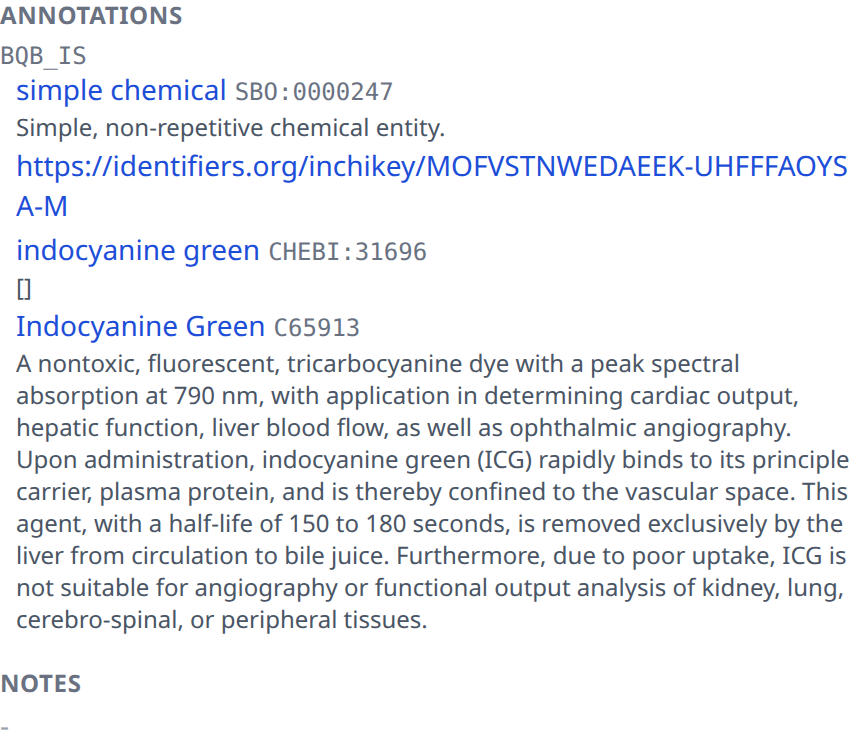
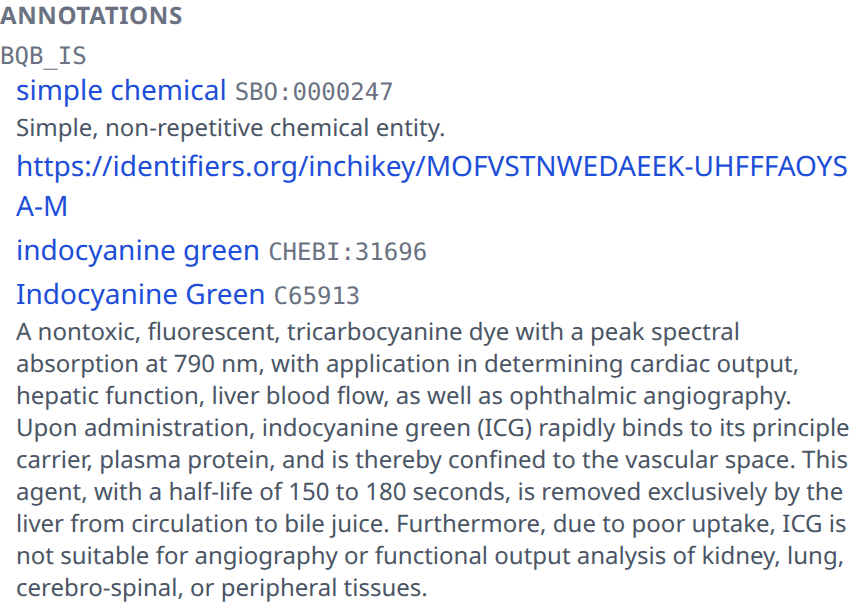
Show no description for a term without a definition
The Ontology Lookup Service reports the missing definition of a term as an
empty list instead of no value, which the annotations of the inspector showed
verbatim as "[]" (for example for indocyanine green, CHEBI:31696).

The resolution of an annotation resource now reports every field the report
shows as text as text, and the errors and warnings of a failed resolution as
messages instead of the exceptions themselves. The screenshot of the
annotations column is taken again and shows the annotations alone, whose notes
followed below the visible area of the panel and were cut off in the middle of
a line.

Claude-Session: https://claude.ai/code/session_01H6NLTR8e7djzBnAwwiXkiU

Changed region(s): [[0.0, 0.3874, 1.0, 1.0], [0.0, 0.0, 1.0, 0.3576]]

diff --git a/frontend/src/api/types.ts b/frontend/src/api/types.ts
@@ -90,8 +90,10 @@ export interface AnnotationInfo {
   label: string | null;
   description: string | null;
   url: string | null;
-  synonyms: string[];
-  xrefs: string[];
+  /** synonyms and cross references of the term, as objects of the ontology service; the report
+   * shows neither of them. */
+  synonyms: unknown[];
+  xrefs: unknown[];
   errors: string[];
   warnings: string[];
 }

diff --git a/backend/tests/test_annotations.py b/backend/tests/test_annotations.py
@@ -1,0 +1,67 @@
+"""Tests of the resolution of annotation resources."""
+
+from typing import Any
+
+import pytest
+from pymetadata.core.annotation import RDFAnnotationData
+
+from sbml4humans.annotations import annotation_info
+
+
+def _ols(label: Any, description: Any) -> Any:
+    """A replacement of the OLS query which fills in label and description."""
+
+    def query_ols(self: RDFAnnotationData) -> dict[str, Any]:
+        self.label = label
+        self.description = description
+        return {}
+
+    return query_ols
+
+
+def test_resolved_information(monkeypatch: pytest.MonkeyPatch) -> None:
+    """Label and description of a resolved resource are reported as text."""
+    monkeypatch.setattr(
+        RDFAnnotationData, "query_ols", _ols("glucose", "An aldohexose.")
+    )
+    info = annotation_info("chebi/CHEBI:17234")
+    assert info["term"] == "CHEBI:17234"
+    assert info["label"] == "glucose"
+    assert info["description"] == "An aldohexose."
+
+
+def test_empty_description(monkeypatch: pytest.MonkeyPatch) -> None:
+    """A term without a definition has no description.
+
+    The Ontology Lookup Service reports the missing definition of CHEBI:31696
+    (indocyanine green) as an empty list, which the report showed verbatim.
+    """
+    monkeypatch.setattr(RDFAnnotationData, "query_ols", _ols("indocyanine green", []))
+    info = annotation_info("chebi/CHEBI:31696")
+    assert info["label"] == "indocyanine green"
+    assert info["description"] is None
+
+
+def test_blank_label(monkeypatch: pytest.MonkeyPatch) -> None:
+    """A label of whitespace only is no label."""
+    monkeypatch.setattr(RDFAnnotationData, "query_ols", _ols("  ", "  "))
+    info = annotation_info("chebi/CHEBI:17234")
+    assert info["label"] is None
+    assert info["description"] is None
+
+
+def test_messages_are_text(monkeypatch: pytest.MonkeyPatch) -> None:
+    """Errors and warnings are reported as text.
+
+    A failing OLS request collects the request error itself, which is not
+    part of the JSON of the response.
+    """
+
+    def query_ols(self: RDFAnnotationData) -> dict[str, Any]:
+        self.errors.append(ValueError("404 Client Error"))
+        return {}
+
+    monkeypatch.setattr(RDFAnnotationData, "query_ols", query_ols)
+    info = annotation_info("chebi/CHEBI:17234")
+    assert info["errors"] == ["404 Client Error"]
+    assert info["warnings"] == []

diff --git a/backend/sbml4humans/annotations.py b/backend/sbml4humans/annotations.py
@@ -10,6 +10,35 @@ from pymetadata.core.annotation import RDFAnnotation, RDFAnnotationData
 from pymetadata.core.miriam import BQB
 
 
+# fields the report shows as text; the Ontology Lookup Service reports a missing
+# definition as an empty list, which ends up in the description of the term
+TEXT_FIELDS = (
+    "resource_normalized",
+    "collection",
+    "term",
+    "label",
+    "description",
+    "url",
+)
+
+# fields the report shows as messages; a failing request is collected as the error itself
+MESSAGE_FIELDS = ("errors", "warnings")
+
+
+def _text(value: Any) -> str | None:
+    """Convert a field to text; a field which carries no text has no value."""
+    if isinstance(value, str) and value.strip():
+        return value.strip()
+    return None
+
+
+def _messages(value: Any) -> list[str]:
+    """Convert a field to a list of messages."""
+    if not isinstance(value, list):
+        return []
+    return [str(message) for message in value]
+
+
 def annotation_info(resource: str) -> dict[str, Any]:
     """Resolve the information of an annotation resource.
 
@@ -17,5 +46,9 @@ def annotation_info(resource: str) -> dict[str, Any]:
         resource: identifier of the resource (url or MIRIAM urn).
     """
     annotation = RDFAnnotation(qualifier=BQB.IS, resource=resource)
-    data = RDFAnnotationData(annotation=annotation)
-    return data.to_dict()
+    data = RDFAnnotationData(annotation=annotation).to_dict()
+    for field in TEXT_FIELDS:
+        data[field] = _text(data.get(field))
+    for field in MESSAGE_FIELDS:
+        data[field] = _messages(data.get(field))
+    return data
